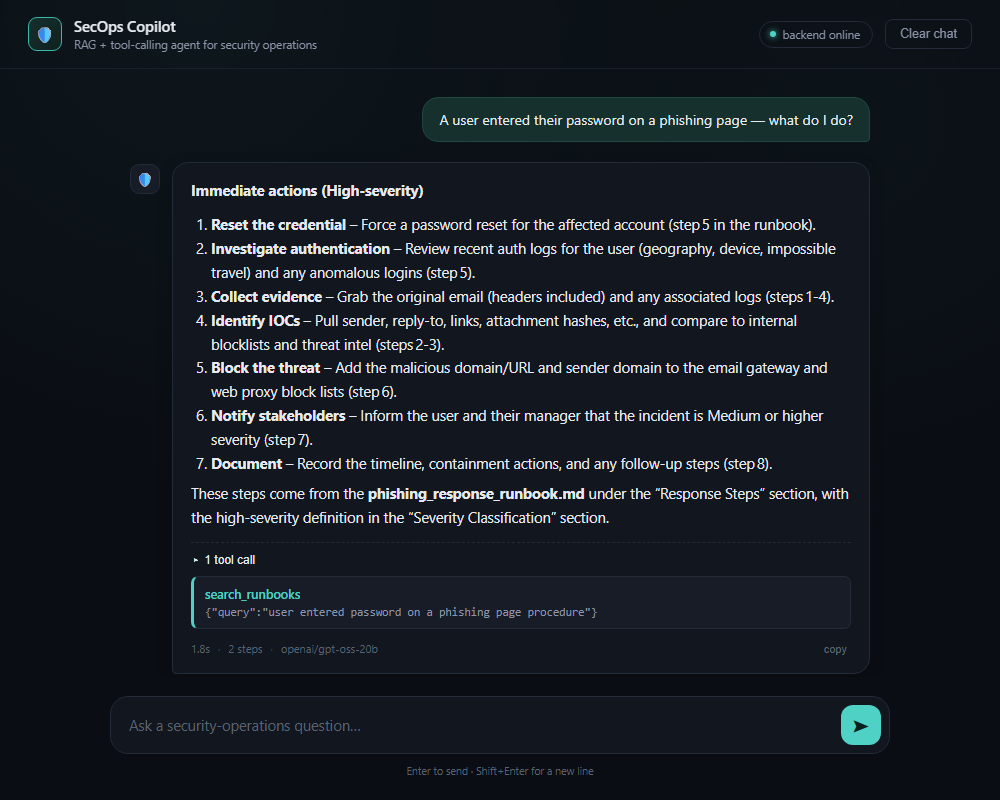
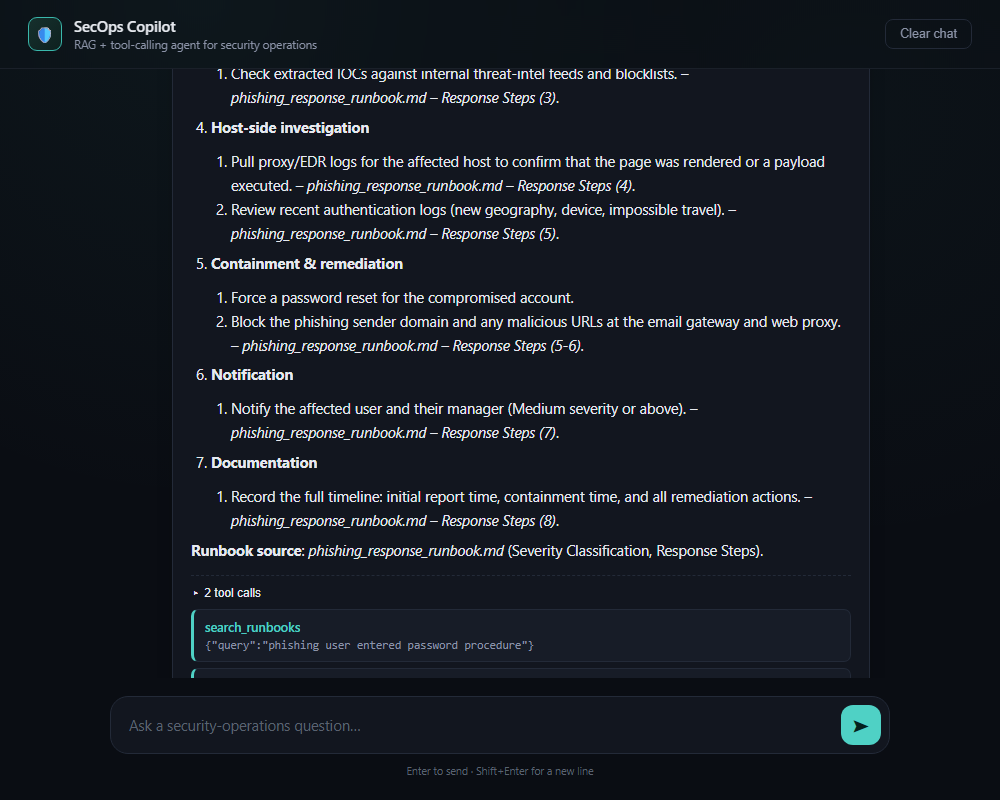
style: Remove backend online badge from UI

diff --git a/static/index.html b/static/index.html
@@ -271,7 +271,6 @@
     </div>
   </div>
   <div class="header-right">
-    <div class="badge" id="statusBadge"><span class="dot" id="statusDot"></span><span id="statusText">checking backend…</span></div>
     <button class="ghost" id="clearBtn">Clear chat</button>
   </div>
 </header>
@@ -309,8 +308,6 @@ const examplesEl = document.getElementById("examples");
 const questionEl = document.getElementById("question");
 const sendBtn = document.getElementById("sendBtn");
 const clearBtn = document.getElementById("clearBtn");
-const statusDot = document.getElementById("statusDot");
-const statusText = document.getElementById("statusText");
 
 EXAMPLES.forEach((ex) => {
   const btn = document.createElement("button");
@@ -319,19 +316,6 @@ EXAMPLES.forEach((ex) => {
   btn.onclick = () => { questionEl.value = ex; send(); };
   examplesEl.appendChild(btn);
 });
-
-async function checkHealth() {
-  try {
-    const res = await fetch("/health");
-    if (!res.ok) throw new Error();
-    statusDot.className = "dot ok";
-    statusText.textContent = "backend online";
-  } catch {
-    statusDot.className = "dot err";
-    statusText.textContent = "backend unreachable";
-  }
-}
-checkHealth();
 
 function autoResize() {
   questionEl.style.height = "auto";
